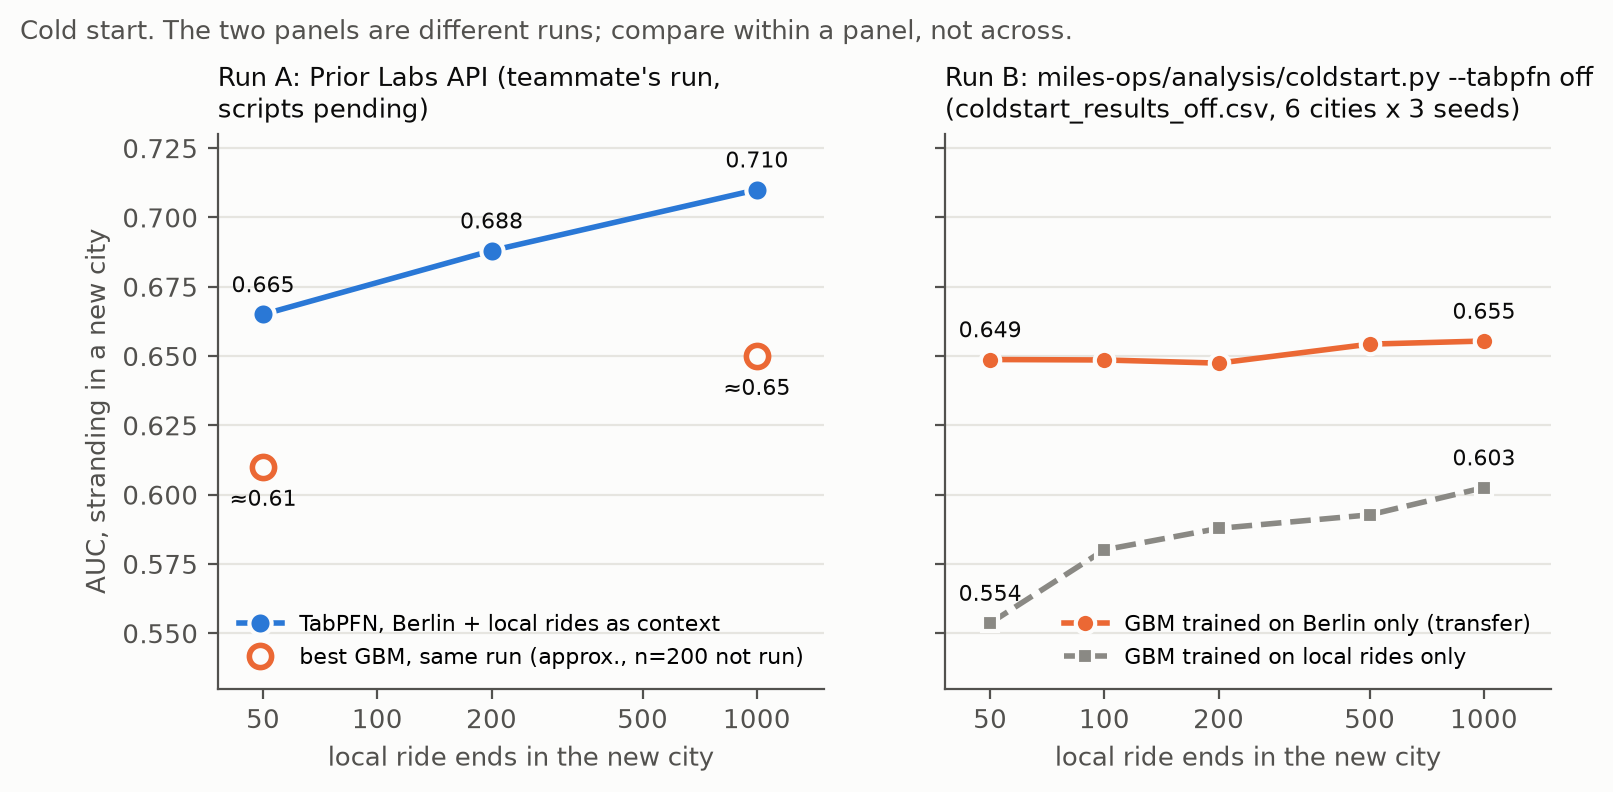
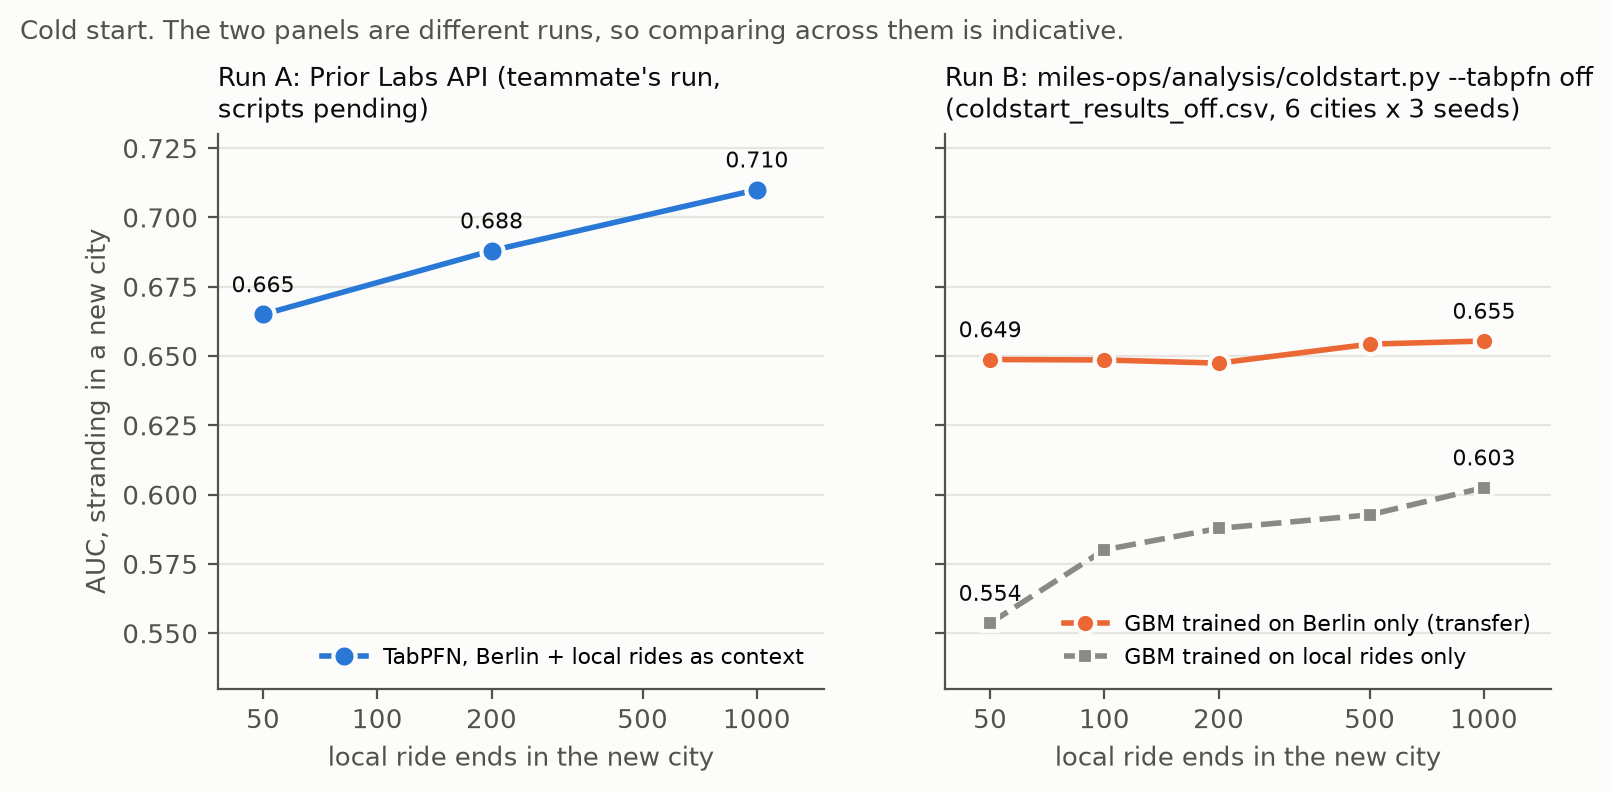
Align README with final narrative; cold-start figure; whitepaper
Claude-Session: https://claude.ai/code/session_01FKYbrxU7awL3hFePN3nkB8

diff --git a/docs/make_figures.py b/docs/make_figures.py
@@ -82,11 +82,6 @@ tn, ta = [50, 200, 1000], [0.665, 0.688, 0.710]
 a1.plot(tn, ta, "-o", color=BLUE, lw=2, ms=8, mec=BG, mew=1.5, label="TabPFN, Berlin + local rides as context")
 for x, y in zip(tn, ta):
     a1.annotate(f"{y:.3f}", (x, y), xytext=(0, 8), textcoords="offset points", ha="center", fontsize=8, color=INK)
-# same-run best GBM, reported only approximately and only at n = 50 and 1000 (not run at 200): unconnected markers
-for x, y in [(50, 0.61), (1000, 0.65)]:
-    a1.plot([x], [y], "o", ms=8, mfc=BG, mec=ORANGE, mew=2)
-    a1.annotate(f"≈{y:.2f}", (x, y), xytext=(0, -14), textcoords="offset points", ha="center", fontsize=8, color=INK)
-a1.plot([], [], "o", ms=8, mfc=BG, mec=ORANGE, mew=2, label="best GBM, same run (approx., n=200 not run)")
 a1.set_title("Run A: Prior Labs API (teammate's run,\nscripts pending)", loc="left", fontsize=9.5, color=INK)
 a1.legend(loc="lower right", fontsize=7.8, frameon=False)
 
@@ -101,6 +96,6 @@ for col in ("ber_transfer_auc", "gbm_auc"):
 a2.set_title("Run B: miles-ops/analysis/coldstart.py --tabpfn off\n(coldstart_results_off.csv, 6 cities x 3 seeds)",
              loc="left", fontsize=9.5, color=INK)
 a2.legend(loc="lower right", fontsize=7.8, frameon=False)
-fig.suptitle("Cold start. The two panels are different runs; compare within a panel, not across.",
+fig.suptitle("Cold start. The two panels are different runs, so comparing across them is indicative.",
              x=0.01, ha="left", fontsize=9.5, color=INK2, y=1.04)
 save(fig, "fig_coldstart")

diff --git a/README.md b/README.md
@@ -9,7 +9,7 @@ This is open applied research and a feature we think MILES should build. It is f
 It is **unofficial and not affiliated with or endorsed by MILES Mobility**. MILES did not take part.
 
 - Landing page: <https://miles.bolls.dev/>
-- Whitepaper (PDF): <https://miles.bolls.dev/whitepaper/whitepaper.pdf> (source in [`whitepaper/latex/`](whitepaper/latex/))
+- Whitepaper (PDF): <https://miles.bolls.dev/whitepaper/whitepaper.pdf> (same file in the repo: [`whitepaper/latex/main.pdf`](whitepaper/latex/main.pdf); source in [`whitepaper/latex/`](whitepaper/latex/))
 - Operator console: <https://miles.bolls.dev/ops/>
 - Concept rider app (PWA): <https://miles.bolls.dev/app/>
 
@@ -18,14 +18,16 @@ are on historical Berlin data from June 2024.
 
 ## The problem
 
-In Berlin in June 2024 about **2,700 ride ends per day (18%)** were followed by more than 12 hours idle
+In Berlin in June 2024 **more than 2,000 cars a day strand**: 18% of ride ends were followed by more than 12 hours idle
 ([`rescue_stranded_validation.md`](miles-ops/analysis/rescue_stranded_validation.md): 53,616 of 301,995 ride ends
 over 20 days = 17.75%). Most of these cars are not broken; they are parked where nobody wants a car next.
 MILES runs about **186 relocation trips a day**, starting a median **24.1 h** after the last customer ride
 (3,724 `IN_RELOCATION_TRIP` runs, June 3-22 2024; [`relocations_june.py`](miles-ops/analysis/relocations_june.py)).
 By then 80% of the cars we flag at ride end have already been rented without help. (Relocations are read from the
-public status record, not from operator logs.) The staff-vs-user economics are in
-[`whitepaper/value_model.md`](whitepaper/value_model.md).
+public status record, not from operator logs.) On rental time alone, staff moves as practised lose about
+**€0.6-2.7M a year** (MILES may relocate for other reasons too). A mature hybrid (riders move flagged cars at ride end,
+staff only for the predicted long tail) could save about **€0.6-3M a year in Berlin**. These are operating-model
+scenarios, not a TabPFN result; the staff-vs-user economics are in [`whitepaper/value_model.md`](whitepaper/value_model.md).
 
 If stranding can be predicted at the moment a ride ends, the car can be moved before the day is lost.
 
@@ -46,7 +48,8 @@ If stranding can be predicted at the moment a ride ends, the car can be moved be
 
 ## Results
 
-Berlin, train 3-16 June 2024, test 17-22 June 2024, base rate 17.75%. TabPFN = 10k-row context, no tuning.
+Berlin, train 3-16 June 2024, test 17-22 June 2024 (time split; all AUCs below are on the test days), base rate 17.75%.
+TabPFN = 10k-row context, no tuning.
 
 | Stranding model | Training rows | AUC | ECE | Top-10% hit rate |
 |---|---|---|---|---|
@@ -74,8 +77,8 @@ two June weeks and are tested on its last two weeks.
 | GBM trained on local rides only | 0.554 | 0.588 | 0.603 | `coldstart_results_off.csv` |
 
 The TabPFN row and the GBM rows come from **different runs**, so the comparison is indicative until both are rerun
-together. In the TabPFN run, the best same-run GBM baseline was about 0.61 at n=50 and about 0.65 at n=1000 (not run
-at n=200). The figure keeps the two runs in separate panels for that reason.
+together. TabPFN's margin over the Berlin-transfer GBM is about 0.02 at n=50 and about 0.06 at n=1000. The figure
+keeps the two runs in separate panels for that reason.
 
 ![Cold start, two runs](docs/fig_coldstart.svg)
 
@@ -112,7 +115,8 @@ Same-budget GBM baselines are pending. Scripts pending.
     scores the batch and the move says so.
   - **Replay** plays back real June 2024 ride ends with TabPFN scores **precomputed** out-of-sample by
     [`build_tabpfn.py`](miles-ops/backend/build_tabpfn.py). It is always labelled "Replay".
-  - A car becomes a relocate move at p >= 0.4556 (the top 10% of ride ends; 56% of those really stranded).
+  - A car becomes a relocate move at p >= 0.4556 (the top 10% of ride ends). On the 17-22 June test days
+    57% of flagged cars really strand, 3x the 18% base rate (served 11-feature model).
 - **Concept rider app** (<https://miles.bolls.dev/app/>; source in [`drive-app/`](drive-app/)): a map that badges only
   the cars predicted to strand. The user picks where they are going; the app ranks nearby flagged cars by a credit
   (≤ €5) priced from the idle hours the move saves. It runs on
@@ -174,7 +178,7 @@ We reran step 2 from a fresh clone of this repo on 22 Nov 2026; the output was b
 
 | Number | Script | Output |
 |---|---|---|
-| 2,700 strandings/day, 17.75% | analysis script `rescue_analysis.py`: **pending** | [`rescue_stranded_validation.md`](miles-ops/analysis/rescue_stranded_validation.md), [`rescue_stranded_aggregates.csv`](miles-ops/analysis/rescue_stranded_aggregates.csv) |
+| More than 2,000 strandings/day, 17.75% of ride ends | analysis script `rescue_analysis.py`: **pending** | [`rescue_stranded_validation.md`](miles-ops/analysis/rescue_stranded_validation.md), [`rescue_stranded_aggregates.csv`](miles-ops/analysis/rescue_stranded_aggregates.csv) |
 | 186 relocations/day, median 24.1 h late | [`relocations_june.py`](miles-ops/analysis/relocations_june.py) | parquet regenerated by the script (not committed) |
 | Staff vs user economics, annual scenarios | [`rescue_ab_value.py`](miles-ops/analysis/rescue_ab_value.py), [`ab_economics.py`](miles-ops/analysis/ab_economics.py), [`ab_scenarios.py`](miles-ops/analysis/ab_scenarios.py) | [`value_model.md`](whitepaper/value_model.md) |
 | Nov 2026 out-of-time test (AUC 0.763, context refresh +0.012) | [`oot_2026.py`](miles-ops/analysis/oot_2026.py) | [`results/oot_2026.md`](miles-ops/analysis/results/oot_2026.md) |
@@ -214,7 +218,8 @@ the table; it is not the source of the table's 0.858.
 - **Stranded cars are mostly peripheral** (median 7.3 km from the centre; about 75% beyond 5 km). A good area within
   1 km exists for only 4.6% of flagged cars, which is why the rescue is "take it where you're going anyway", not a
   short walk-and-park.
-- **Concept app** runs on one demo snapshot; its "97% still there" is a fixed policy figure, not a per-car score.
+- **Concept app** runs on one demo snapshot; its "97% still there" is a fixed demo value, not a per-car score. The policy behind it: only cars with a predicted
+  P(still there) of at least 95% are offered (≥95% still there); then about 1.2% of rescues find the car gone.
 - **Relocation baseline** (186/day, 24.1 h) is read from the public status record, not from operator logs.
 
 ## Repository layout
